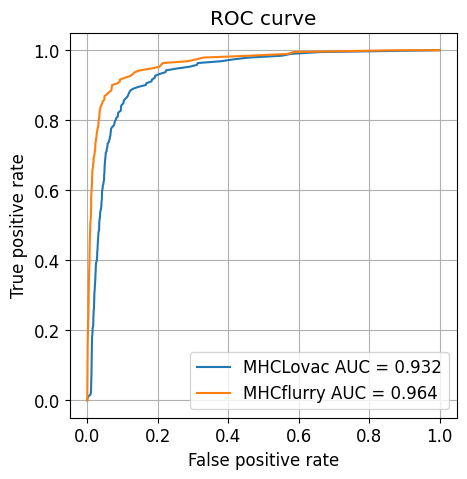
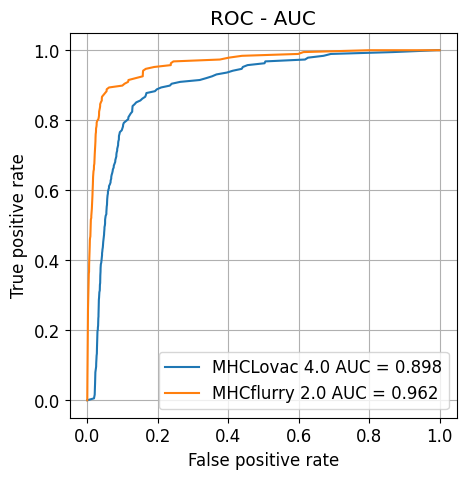
fix data and index prep

diff --git a/research/benchmark.py b/research/benchmark.py
@@ -7,16 +7,21 @@ import matplotlib.pyplot as plt
 from matplotlib import rcParams
 from sklearn.metrics import auc
 from mhcflurry import Class1PresentationPredictor
-predictor = Class1PresentationPredictor.load()
+
+
+N_SAMPLES = 200
+RANDOM_SEED = 0
+bench_fasta = '../data/CD8_epitopes.fsa'
+
+
+# load mhcflurry predictor
+mhcflurry = Class1PresentationPredictor.load()
 
 
 rcParams['font.family'] = 'sans-serif'
 # rcParams['font.sans-serif'] = ['Tahoma']
 rcParams['font.size'] = 12
 props = dict(boxstyle='round', facecolor='wheat', alpha=0.6)
-
-
-bench_fasta = '../data/CD8_epitopes.fsa'
 
 scores = {
     'mhclovac': {
@@ -29,7 +34,8 @@ scores = {
     }
 }
 
-random_selection = np.random.randint(low=0, high=1660, size=200)
+np.random.seed(RANDOM_SEED)
+random_selection = np.random.randint(low=0, high=1660, size=N_SAMPLES)
 
 for i, (sequence_name, sequence) in enumerate(read_fasta(bench_fasta)):
 
@@ -48,18 +54,9 @@ for i, (sequence_name, sequence) in enumerate(read_fasta(bench_fasta)):
     mhc_allele = '*'.join([mhc_class, mhc_sub])
 
     try:
-        model = load_model(mhc_allele)['binding_model']
-        if not model:
-            print(mhc_allele, 'skipped')
-            continue
-    except Exception as e:
-        print(e)
-        continue
-
-    try:
         peptides = chop_sequence(sequence=sequence, peptide_length=len(true_epitope))
         mhclovac_predictions = predict(peptides,  mhc_allele)
-        mhcflurry_predictions = predictor.predict(peptides=peptides, alleles=[allele])
+        mhcflurry_predictions = mhcflurry.predict(peptides=peptides, alleles=[allele], verbose=0)
     except Exception as e:
         print(e)
         continue
@@ -108,11 +105,11 @@ for key in scores:
     roc_data[key]['tpr_array'].append(0.0)
     roc_data[key]['fpr_array'].append(0.0)
 
-fig, ax = plt.subplots(1,1, figsize=(5, 5))
+fig, ax = plt.subplots(1,1, figsize=(5, 5), dpi=100)
 auc_mhclovac = round(auc(roc_data['mhclovac']['fpr_array'], roc_data['mhclovac']['tpr_array']), 3)
 auc_mhcfurry = round(auc(roc_data['mhcflurry']['fpr_array'], roc_data['mhcflurry']['tpr_array']), 3)
 
-ax.set_title('ROC curve')
+ax.set_title('ROC - AUC')
 ax.plot(roc_data['mhclovac']['fpr_array'], roc_data['mhclovac']['tpr_array'])
 ax.plot(roc_data['mhcflurry']['fpr_array'], roc_data['mhcflurry']['tpr_array'])
 
@@ -120,8 +117,8 @@ ax.grid()
 ax.set_xlabel('False positive rate')
 ax.set_ylabel('True positive rate')
 ax.legend(labels=(
-    f'MHCLovac AUC = {auc_mhclovac}',
-    f'MHCflurry AUC = {auc_mhcfurry}'
+    f'MHCLovac 4.0 AUC = {auc_mhclovac}',
+    f'MHCflurry 2.0 AUC = {auc_mhcfurry}'
 ))
 
 plt.savefig('figures/binding-roc-auc.png', bbox_inches='tight')

diff --git a/research/index_prep.py b/research/index_prep.py
@@ -1,6 +1,6 @@
 from pyaaisc import Aaindex
 import joblib
-from mhclovac.preprocessing import normalize_index_data
+from mhclovac.preprocessing import normalize_index_data, standardize_index_data
 
 
 aaindex = Aaindex()
@@ -11,12 +11,14 @@ for accession_number, title in aaindex.get_all('aaindex1'):
     try:
         index_data = aaindex.get(accession_number, dbkey='aaindex1').index_data
         normalized_data = normalize_index_data(index_data)
+        standardized_data = standardize_index_data(index_data)
         aaindex_data[accession_number] = {
             'title': title,
-            'index_data': normalized_data,
+            'normalized_index_data': normalized_data,
+            'standardized_index_data': standardized_data,
             'original_index_data': index_data
         }
-        # print(aaindex_data[accession_number])
+        print(accession_number)
     except Exception as e:
         msg = f'{accession_number}: {e}'
         print(msg)

diff --git a/research/modeling.py b/research/modeling.py
@@ -11,7 +11,7 @@ rcParams['font.size'] = 16
 props = dict(boxstyle='round', facecolor='wheat', alpha=0.6)
 
 
-hydrophobicity_index_data = load_index_data()['PRAM900101']['index_data']
+hydrophobicity_index_data = load_index_data()['PRAM900101']['standardized_index_data']
 
 
 def plot_distribution(sequence, index, label, legend=None, linewidth=3, ylabel=None, title=None):
@@ -63,7 +63,6 @@ def plot_discrete_values(distribution, title=None, label=None):
     if title:
         plt.title(title)
     return
-
 
 
 example_sequence_1 = 'LLDVTAAV'
